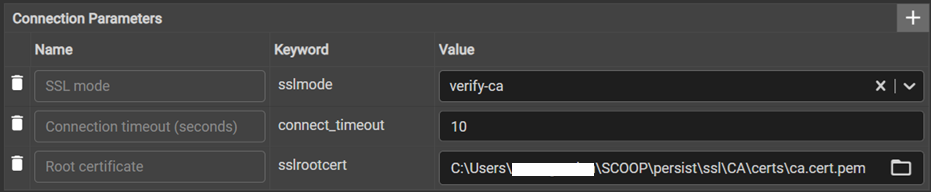
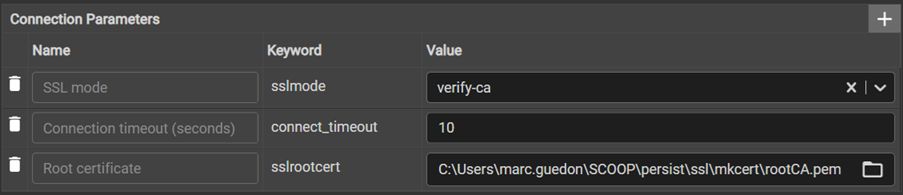
Maj README

diff --git a/README.md b/README.md
@@ -47,7 +47,7 @@ pg:
       type: postgres
       user: jaffle
       sslmode: verify-ca
-      sslrootcert: C:\Users\<user>\SCOOP\persist\ssl\CA\certs\ca.cert.pem
+      sslrootcert: C:\Users\<user>\SCOOP\persist\ssl\mkcert\rootCA.pem
 duck_tuto:
   target: dev
   outputs:
@@ -133,9 +133,16 @@ select * from pg_catalog.pg_authid where rolcanlogin = true;
 \q to exit psql
 
 
-PostgreSQL connection should be established under SSL/TLS for security.<br>
-SSL/TLS certificate generation and configuration is not documented here.<br>
-Cf https://learn.microsoft.com/en-us/azure/application-gateway/self-signed-certificates
+PostgreSQL connection should be established under SSL/TLS for security.
+
+Cf https://github.com/filosottile/mkcert
+
+```
+$env:CAROOT='C:\Users\<user>\SCOOP\persist\ssl\mkcert'
+mkcert -install
+mkcert -cert-file (Join-Path $(mkcert -CAROOT) "server.cert.pem") -key-file (Join-Path $(mkcert -CAROOT) "server.key.pem") localhost $(hostname).ToLower()
+```
+
 
 ### postgresql.conf and pg_hba.conf
 
@@ -150,9 +157,9 @@ listen_addresses = '*'
 password_encryption = scram-sha-256
 ssl=on
 ssl_min_protocol_version = 'TLSv1.2'
-ssl_ca_file = 'C:\\Users\\<user>\\SCOOP\\persist\\ssl\\CA\\certs\\ca.cert.pem'
-ssl_cert_file = 'C:\\Users\\<user>\\SCOOP\\persist\\ssl\\CA\\certs\\server.cert.pem'
-ssl_key_file = 'C:\\Users\\<user>\\SCOOP\\persist\\ssl\\CA\\private\\server.key.pem'
+ssl_ca_file = 'C:\\Users\\<user>\\SCOOP\\persist\\ssl\\mkcert\\rootCA.pem'
+ssl_cert_file = 'C:\\Users\\<user>\\SCOOP\\persist\\ssl\\mkcert\\server.cert.pem'
+ssl_key_file = 'C:\\Users\\<user>\\SCOOP\\persist\\ssl\\mkcert\\server.key.pem'
 ```
 
 Backup original pg_hba.conf.<br>
@@ -166,33 +173,15 @@ hostnossl   all             all             0.0.0.0/0               reject
 hostnossl   all             all             ::/0                    reject
 ```
 
-
-### postgresql.conf and pg_hba.conf without SSL/TLS (passwords travel in clear text. not secure)
-
-Add this in instance.conf in the same directory as postgresql.conf :
-```
-listen_addresses = '*'
-password_encryption = scram-sha-256
-```
-
-Backup original pg_hba.conf.<br>
-Overwrite pg_hba.conf with :
-
-```
-# TYPE      DATABASE        USER            ADDRESS                 METHOD
-host     all             all             0.0.0.0/0               scram-sha-256
-host     all             all             ::/0                    scram-sha-256
-```
-
-
-### pgadmin 4
-
 Restart instance
 ```
 pg_ctl.exe restart
 ```
 
-Solve certificate error
+
+### pgadmin 4
+
+Solve embeded python certificate error
 ```powershell
 & "<path_to>\postgresql\18.3\pgAdmin 4\python\python.exe" -m pip install pip_system_certs
 ```
@@ -229,7 +218,7 @@ I use SCOOP under Windows and Powershell with no admin rights.<br>
 
 Excerpt from "scoop list" :
 ```
-openssl-light    3.6.1        main
+mkcert           1.4.4        extras
 nodejs           25.9.0       main
 postgresql       18.3         main
 duckdb           1.5.1        main
